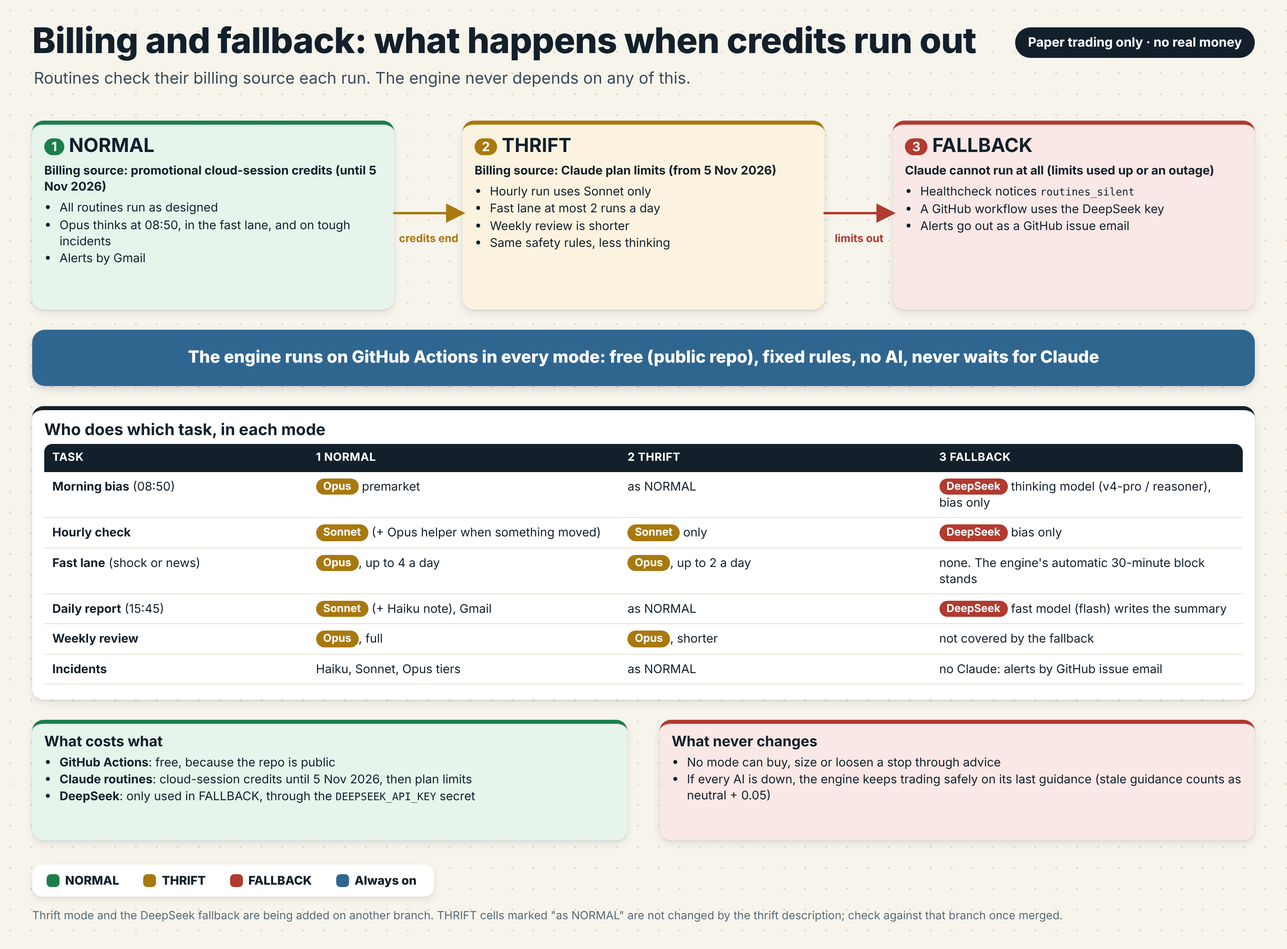
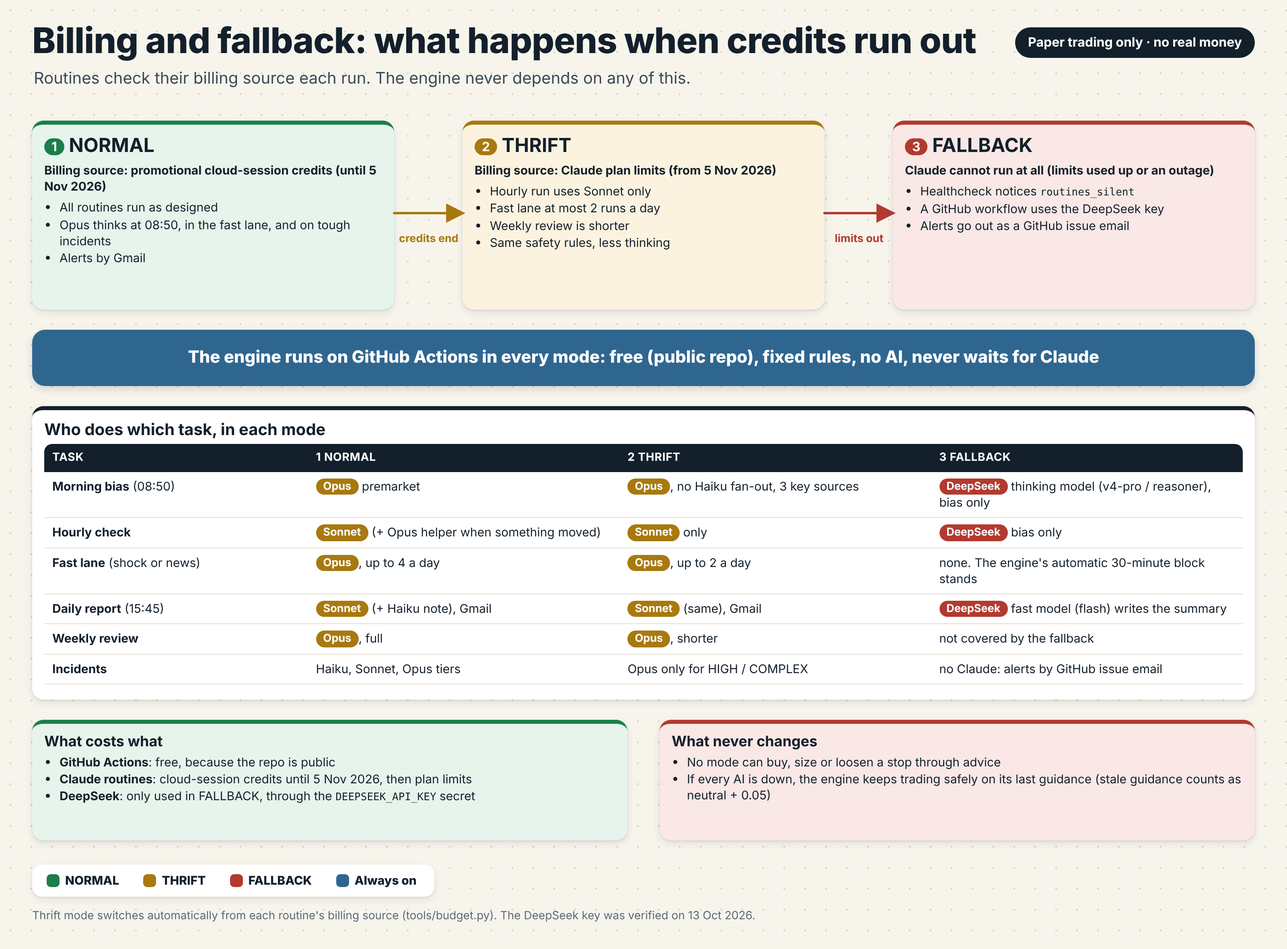
Visual guide: align thrift/fallback details with the merged code
Claude-Session: https://claude.ai/code/session_017yYgGxZsa4ANVjgGUi44pD

diff --git a/docs/architecture/03-daily-timeline.html b/docs/architecture/03-daily-timeline.html
@@ -44,6 +44,6 @@ b.g{color:#1a7f4b}b.r{color:#b23a30}b.y{color:#a8790f}
 <h1>What runs when, in one trading day</h1>
 <div class="sub">Everything in IST. The engine trades by the minute; Claude thinks a few times a day; you are asked once.</div>
 <div class="badge">Paper trading only · no real money</div>
-<div class="abs" style="left:140px;top:140px;width:69.875px;height:38px;background:#5b7083;color:#fff;font-weight:700;font-size:14px;display:flex;align-items:center;justify-content:center;border-radius:8px;overflow:hidden;white-space:nowrap">Pre-open</div><div class="abs" style="left:211.875px;top:140px;width:41.125px;height:38px;background:#b23a30;color:#fff;font-weight:700;font-size:14px;display:flex;align-items:center;justify-content:center;border-radius:8px;overflow:hidden;white-space:nowrap">×</div><div class="abs" style="left:255px;top:140px;width:946.75px;height:38px;background:#1a7f4b;color:#fff;font-weight:700;font-size:14px;display:flex;align-items:center;justify-content:center;border-radius:8px;overflow:hidden;white-space:nowrap">Buying allowed (09:30 to 15:00)</div><div class="abs" style="left:1203.75px;top:140px;width:84.25px;height:38px;background:#a8790f;color:#fff;font-weight:700;font-size:14px;display:flex;align-items:center;justify-content:center;border-radius:8px;overflow:hidden;white-space:nowrap">No new</div><div class="abs" style="left:1290px;top:140px;width:228px;height:38px;background:#8896a3;color:#fff;font-weight:700;font-size:14px;display:flex;align-items:center;justify-content:center;border-radius:8px;overflow:hidden;white-space:nowrap">Market closed</div><div class="lane c-blue" style="left:40px;top:244px;width:1520px;height:186px"><div class="ll">Engine</div></div><div class="lane c-slate" style="left:40px;top:440px;width:1520px;height:104px"><div class="ll">Watchdog</div></div><div class="lane c-gold" style="left:40px;top:554px;width:1520px;height:215px"><div class="ll">Claude</div></div><div class="lane c-green" style="left:40px;top:779px;width:1520px;height:70px"><div class="ll">You</div></div><div class="abs" style="left:298.125px;top:372px;white-space:nowrap;font-size:15px;font-weight:700;color:#2f6690">a decision every 60 seconds (about 375 a day)</div><div class="abs" style="left:182.75px;top:270px;white-space:nowrap;text-align:left;transform:none;font-size:15px;line-height:1.2"><b style="color:#2f6690">~09:00</b> engine starts (premarket dispatches it)</div><div class="abs" style="left:211.5px;top:295px;white-space:nowrap;text-align:left;transform:none;font-size:15px;line-height:1.2"><b style="color:#2f6690">09:10</b> scheduled start (backup)</div><div class="abs" style="left:225.875px;top:320px;white-space:nowrap;text-align:left;transform:none;font-size:15px;line-height:1.2"><b style="color:#2f6690">09:15</b> market opens</div><div class="abs" style="left:269px;top:345px;white-space:nowrap;text-align:left;transform:none;font-size:15px;line-height:1.2"><b style="color:#2f6690">09:30</b> first buys allowed</div><div class="abs" style="left:715.375px;top:322px;white-space:nowrap;text-align:left;transform:none;font-size:15px;line-height:1.2"><b style="color:#2f6690">12:15</b> afternoon session starts (morning one ends 12:20)</div><div class="abs" style="left:1039.375px;top:296px;width:300px;text-align:center;font-weight:700;font-size:15px">14:55 to 15:50 is magnified below</div><div class="abs" style="left:197.5px;top:452px;width:900px;font-size:15px"><b style="color:#5b7083">Watchdog every 10 min, 09:10 to 15:40</b> (re-starts the engine if it stopped, writes health.json)</div><div class="abs" style="left:1448.5px;top:450px;white-space:nowrap;text-align:right;transform:translateX(-100%);font-size:15px;line-height:1.2"><b style="color:#5b7083">16:30</b> post-close check</div><div class="abs" style="left:1491.625px;top:500px;white-space:nowrap;text-align:right;transform:translateX(-100%);font-size:15px;line-height:1.2"><b style="color:#b23a30">16:45</b> health check*</div><div class="abs" style="left:1506px;top:521px;white-space:nowrap;text-align:right;transform:translateX(-100%);font-size:15px;line-height:1.2"><b style="color:#b23a30">16:50</b> fallback check*</div><div class="abs" style="left:154px;top:580px;white-space:nowrap;text-align:left;transform:none;font-size:15px;line-height:1.2"><b style="color:#a8790f">08:50</b> Premarket (Opus): bias, events, notes</div><div class="abs" style="left:364.375px;top:614px;white-space:nowrap;font-size:15px"><b style="color:#a8790f">Hourly 10:15 to 15:15 (Sonnet)</b>: mostly "no change"</div><div class="abs" style="left:1319.125px;top:670px;white-space:nowrap;text-align:right;transform:translateX(-100%);font-size:15px;line-height:1.2"><b style="color:#a8790f">15:45</b> Daily report (Sonnet)</div><div class="abs" style="left:255px;top:712px;white-space:nowrap;font-size:15px;color:#3a4a58"><b style="color:#a8790f">Fast lane (Opus)</b> wakes any time on a price shock or big news, back in 2 to 4 minutes (max 4 a day).</div><div class="abs" style="left:255px;top:738px;white-space:nowrap;font-size:15px;color:#3a4a58"><b style="color:#a8790f">Incident routine (Sonnet)</b> wakes on a problem (max 6 a day).</div><div class="abs" style="left:1333.5px;top:803px;white-space:nowrap;text-align:right;transform:translateX(-100%);font-size:15px;line-height:1.2"><b style="color:#1a7f4b">~15:50</b> email arrives; tap "Looks right" in the Inbox any time</div><div class="abs" style="left:40px;top:884px;font-size:20px;font-weight:800">Magnified: 14:55 to 15:50</div><div class="card c-gold " style="left:124.0909090909091px;top:964px;width:190px;height:80px"><p style="margin:0"><b>15:00</b> No more new buys</p></div><div class="card c-blue " style="left:511.3636363636364px;top:1050px;width:190px;height:80px"><p style="margin:0"><b>15:15</b> Time and score exits; hourly run</p></div><div class="card c-blue " style="left:640.4545454545454px;top:964px;width:190px;height:80px"><p style="margin:0"><b>15:20</b> Overnight check: sell what a gap could hurt</p></div><div class="card c-blue " style="left:898.6363636363636px;top:1050px;width:190px;height:80px"><p style="margin:0"><b>15:30</b> Market closes</p></div><div class="card c-blue " style="left:1027.7272727272727px;top:964px;width:190px;height:80px"><p style="margin:0"><b>15:35</b> Last engine session ends, final push</p></div><div class="card c-gold " style="left:1285.9090909090908px;top:1050px;width:190px;height:80px"><p style="margin:0"><b>15:45</b> Daily report starts; email to you by ~15:50</p></div><div class="card c-gold tint" style="left:40px;top:1180px;width:490px;height:140px"><h3>Saturday</h3><ul><li><b>08:00</b> weekly backtest of the old design (legacy)</li><li><b>09:50</b> weekly review (Opus): week vs GOLDBEES buy-and-hold, lessons, at most 3 proposals for you</li></ul></div><div class="card c-blue tint" style="left:555px;top:1180px;width:490px;height:140px"><h3>Monthly archive</h3><ul><li><b>02:00 IST, first Sunday</b> of the month</li><li>Logs older than 35 days are gzipped into archive/, one summary row a day is kept</li></ul></div><div class="card c-red tint" style="left:1070px;top:1180px;width:490px;height:140px"><h3>Hourly reminders (24/7)</h3><ul><li>Runs at minute 7 of every hour, even on weekends</li><li>Uses Claude only when a <b>HIGH</b> alert is still unacknowledged after about an hour</li></ul></div><div class="legend" style="top:1345px"><div><span class="sw" style="background:#2f6690"></span><b>Engine</b></div><div><span class="sw" style="background:#5b7083"></span><b>GitHub watchdog</b></div><div><span class="sw" style="background:#a8790f"></span><b>Claude routine</b></div><div><span class="sw" style="background:#1a7f4b"></span><b>You</b></div><div><span class="sw" style="background:#b23a30"></span><b>* new fallback branch</b></div></div><div class="foot" style="top:1405px">All times IST, Monday to Friday unless stated. Band colours: grey = pre-open, red x = no buys 09:15 to 09:30, green = buying allowed, gold = no new buys 15:00 to 15:30. Source: .github/workflows/*.yml and routines/README.md. The 16:45 and 16:50 checks come from the DeepSeek fallback work on another branch.</div>
+<div class="abs" style="left:140px;top:140px;width:69.875px;height:38px;background:#5b7083;color:#fff;font-weight:700;font-size:14px;display:flex;align-items:center;justify-content:center;border-radius:8px;overflow:hidden;white-space:nowrap">Pre-open</div><div class="abs" style="left:211.875px;top:140px;width:41.125px;height:38px;background:#b23a30;color:#fff;font-weight:700;font-size:14px;display:flex;align-items:center;justify-content:center;border-radius:8px;overflow:hidden;white-space:nowrap">×</div><div class="abs" style="left:255px;top:140px;width:946.75px;height:38px;background:#1a7f4b;color:#fff;font-weight:700;font-size:14px;display:flex;align-items:center;justify-content:center;border-radius:8px;overflow:hidden;white-space:nowrap">Buying allowed (09:30 to 15:00)</div><div class="abs" style="left:1203.75px;top:140px;width:84.25px;height:38px;background:#a8790f;color:#fff;font-weight:700;font-size:14px;display:flex;align-items:center;justify-content:center;border-radius:8px;overflow:hidden;white-space:nowrap">No new</div><div class="abs" style="left:1290px;top:140px;width:228px;height:38px;background:#8896a3;color:#fff;font-weight:700;font-size:14px;display:flex;align-items:center;justify-content:center;border-radius:8px;overflow:hidden;white-space:nowrap">Market closed</div><div class="lane c-blue" style="left:40px;top:244px;width:1520px;height:186px"><div class="ll">Engine</div></div><div class="lane c-slate" style="left:40px;top:440px;width:1520px;height:104px"><div class="ll">Watchdog</div></div><div class="lane c-gold" style="left:40px;top:554px;width:1520px;height:215px"><div class="ll">Claude</div></div><div class="lane c-green" style="left:40px;top:779px;width:1520px;height:70px"><div class="ll">You</div></div><div class="abs" style="left:298.125px;top:372px;white-space:nowrap;font-size:15px;font-weight:700;color:#2f6690">a decision every 60 seconds (about 375 a day)</div><div class="abs" style="left:182.75px;top:270px;white-space:nowrap;text-align:left;transform:none;font-size:15px;line-height:1.2"><b style="color:#2f6690">~09:00</b> engine starts (premarket dispatches it)</div><div class="abs" style="left:211.5px;top:295px;white-space:nowrap;text-align:left;transform:none;font-size:15px;line-height:1.2"><b style="color:#2f6690">09:10</b> scheduled start (backup)</div><div class="abs" style="left:225.875px;top:320px;white-space:nowrap;text-align:left;transform:none;font-size:15px;line-height:1.2"><b style="color:#2f6690">09:15</b> market opens</div><div class="abs" style="left:269px;top:345px;white-space:nowrap;text-align:left;transform:none;font-size:15px;line-height:1.2"><b style="color:#2f6690">09:30</b> first buys allowed</div><div class="abs" style="left:715.375px;top:322px;white-space:nowrap;text-align:left;transform:none;font-size:15px;line-height:1.2"><b style="color:#2f6690">12:15</b> afternoon session starts (morning one ends 12:20)</div><div class="abs" style="left:1039.375px;top:296px;width:300px;text-align:center;font-weight:700;font-size:15px">14:55 to 15:50 is magnified below</div><div class="abs" style="left:197.5px;top:452px;width:900px;font-size:15px"><b style="color:#5b7083">Watchdog every 10 min, 09:10 to 15:40</b> (re-starts the engine if it stopped, writes health.json)</div><div class="abs" style="left:1448.5px;top:450px;white-space:nowrap;text-align:right;transform:translateX(-100%);font-size:15px;line-height:1.2"><b style="color:#5b7083">16:30</b> post-close check</div><div class="abs" style="left:1491.625px;top:500px;white-space:nowrap;text-align:right;transform:translateX(-100%);font-size:15px;line-height:1.2"><b style="color:#b23a30">16:45</b> health check*</div><div class="abs" style="left:1506px;top:521px;white-space:nowrap;text-align:right;transform:translateX(-100%);font-size:15px;line-height:1.2"><b style="color:#b23a30">16:50</b> fallback check*</div><div class="abs" style="left:154px;top:580px;white-space:nowrap;text-align:left;transform:none;font-size:15px;line-height:1.2"><b style="color:#a8790f">08:50</b> Premarket (Opus): bias, events, notes</div><div class="abs" style="left:364.375px;top:614px;white-space:nowrap;font-size:15px"><b style="color:#a8790f">Hourly 10:15 to 15:15 (Sonnet)</b>: mostly "no change"</div><div class="abs" style="left:1319.125px;top:670px;white-space:nowrap;text-align:right;transform:translateX(-100%);font-size:15px;line-height:1.2"><b style="color:#a8790f">15:45</b> Daily report (Sonnet)</div><div class="abs" style="left:255px;top:712px;white-space:nowrap;font-size:15px;color:#3a4a58"><b style="color:#a8790f">Fast lane (Opus)</b> wakes any time on a price shock or big news, back in 2 to 4 minutes (max 4 a day).</div><div class="abs" style="left:255px;top:738px;white-space:nowrap;font-size:15px;color:#3a4a58"><b style="color:#a8790f">Incident routine (Sonnet)</b> wakes on a problem (max 6 a day).</div><div class="abs" style="left:1333.5px;top:803px;white-space:nowrap;text-align:right;transform:translateX(-100%);font-size:15px;line-height:1.2"><b style="color:#1a7f4b">~15:50</b> email arrives; tap "Looks right" in the Inbox any time</div><div class="abs" style="left:40px;top:884px;font-size:20px;font-weight:800">Magnified: 14:55 to 15:50</div><div class="card c-gold " style="left:124.0909090909091px;top:964px;width:190px;height:80px"><p style="margin:0"><b>15:00</b> No more new buys</p></div><div class="card c-blue " style="left:511.3636363636364px;top:1050px;width:190px;height:80px"><p style="margin:0"><b>15:15</b> Time and score exits; hourly run</p></div><div class="card c-blue " style="left:640.4545454545454px;top:964px;width:190px;height:80px"><p style="margin:0"><b>15:20</b> Overnight check: sell what a gap could hurt</p></div><div class="card c-blue " style="left:898.6363636363636px;top:1050px;width:190px;height:80px"><p style="margin:0"><b>15:30</b> Market closes</p></div><div class="card c-blue " style="left:1027.7272727272727px;top:964px;width:190px;height:80px"><p style="margin:0"><b>15:35</b> Last engine session ends, final push</p></div><div class="card c-gold " style="left:1285.9090909090908px;top:1050px;width:190px;height:80px"><p style="margin:0"><b>15:45</b> Daily report starts; email to you by ~15:50</p></div><div class="card c-gold tint" style="left:40px;top:1180px;width:490px;height:140px"><h3>Saturday</h3><ul><li><b>08:00</b> weekly backtest of the old design (legacy)</li><li><b>09:50</b> weekly review (Opus): week vs GOLDBEES buy-and-hold, lessons, at most 3 proposals for you</li></ul></div><div class="card c-blue tint" style="left:555px;top:1180px;width:490px;height:140px"><h3>Monthly archive</h3><ul><li><b>02:00 IST, first Sunday</b> of the month</li><li>Logs older than 35 days are gzipped into archive/, one summary row a day is kept</li></ul></div><div class="card c-red tint" style="left:1070px;top:1180px;width:490px;height:140px"><h3>Hourly reminders (24/7)</h3><ul><li>Runs at minute 7 of every hour, even on weekends</li><li>Uses Claude only when a <b>HIGH</b> alert is still unacknowledged after about an hour</li></ul></div><div class="legend" style="top:1345px"><div><span class="sw" style="background:#2f6690"></span><b>Engine</b></div><div><span class="sw" style="background:#5b7083"></span><b>GitHub watchdog</b></div><div><span class="sw" style="background:#a8790f"></span><b>Claude routine</b></div><div><span class="sw" style="background:#1a7f4b"></span><b>You</b></div><div><span class="sw" style="background:#b23a30"></span><b>* fallback / alarm</b></div></div><div class="foot" style="top:1405px">All times IST, Monday to Friday unless stated. Band colours: grey = pre-open, red x = no buys 09:15 to 09:30, green = buying allowed, gold = no new buys 15:00 to 15:30. Source: .github/workflows/*.yml and routines/README.md. The 16:45 check is the "Claude not running" alarm; 16:50 is the DeepSeek fallback check.</div>
 <svg class="ov" width="1600" height="1450" viewBox="0 0 1600 1450"><defs><marker id="a-ink" viewBox="0 0 10 10" refX="8.5" refY="5" markerWidth="8" markerHeight="8" orient="auto-start-reverse"><path d="M0,0 L10,5 L0,10 z" fill="#13202b"/></marker><marker id="a-gold" viewBox="0 0 10 10" refX="8.5" refY="5" markerWidth="8" markerHeight="8" orient="auto-start-reverse"><path d="M0,0 L10,5 L0,10 z" fill="#a8790f"/></marker><marker id="a-green" viewBox="0 0 10 10" refX="8.5" refY="5" markerWidth="8" markerHeight="8" orient="auto-start-reverse"><path d="M0,0 L10,5 L0,10 z" fill="#1a7f4b"/></marker><marker id="a-red" viewBox="0 0 10 10" refX="8.5" refY="5" markerWidth="8" markerHeight="8" orient="auto-start-reverse"><path d="M0,0 L10,5 L0,10 z" fill="#b23a30"/></marker><marker id="a-blue" viewBox="0 0 10 10" refX="8.5" refY="5" markerWidth="8" markerHeight="8" orient="auto-start-reverse"><path d="M0,0 L10,5 L0,10 z" fill="#2f6690"/></marker><marker id="a-slate" viewBox="0 0 10 10" refX="8.5" refY="5" markerWidth="8" markerHeight="8" orient="auto-start-reverse"><path d="M0,0 L10,5 L0,10 z" fill="#5b7083"/></marker></defs><line x1="140" x2="1520" y1="196" y2="196" stroke="#13202b" stroke-width="3"/><line x1="168.75" x2="168.75" y1="188" y2="204" stroke="#13202b" stroke-width="3"/><text x="168.75" y="226" text-anchor="middle" font-size="16" font-weight="700" fill="#13202b" stroke="#f7f4ec" stroke-width="5" paint-order="stroke" stroke-linejoin="round">09:00</text><line x1="341.25" x2="341.25" y1="188" y2="204" stroke="#13202b" stroke-width="3"/><text x="341.25" y="226" text-anchor="middle" font-size="16" font-weight="700" fill="#13202b" stroke="#f7f4ec" stroke-width="5" paint-order="stroke" stroke-linejoin="round">10:00</text><line x1="513.75" x2="513.75" y1="188" y2="204" stroke="#13202b" stroke-width="3"/><text x="513.75" y="226" text-anchor="middle" font-size="16" font-weight="700" fill="#13202b" stroke="#f7f4ec" stroke-width="5" paint-order="stroke" stroke-linejoin="round">11:00</text><line x1="686.25" x2="686.25" y1="188" y2="204" stroke="#13202b" stroke-width="3"/><text x="686.25" y="226" text-anchor="middle" font-size="16" font-weight="700" fill="#13202b" stroke="#f7f4ec" stroke-width="5" paint-order="stroke" stroke-linejoin="round">12:00</text><line x1="858.75" x2="858.75" y1="188" y2="204" stroke="#13202b" stroke-width="3"/><text x="858.75" y="226" text-anchor="middle" font-size="16" font-weight="700" fill="#13202b" stroke="#f7f4ec" stroke-width="5" paint-order="stroke" stroke-linejoin="round">13:00</text><line x1="1031.25" x2="1031.25" y1="188" y2="204" stroke="#13202b" stroke-width="3"/><text x="1031.25" y="226" text-anchor="middle" font-size="16" font-weight="700" fill="#13202b" stroke="#f7f4ec" stroke-width="5" paint-order="stroke" stroke-linejoin="round">14:00</text><line x1="1203.75" x2="1203.75" y1="188" y2="204" stroke="#13202b" stroke-width="3"/><text x="1203.75" y="226" text-anchor="middle" font-size="16" font-weight="700" fill="#13202b" stroke="#f7f4ec" stroke-width="5" paint-order="stroke" stroke-linejoin="round">15:00</text><line x1="1376.25" x2="1376.25" y1="188" y2="204" stroke="#13202b" stroke-width="3"/><text x="1376.25" y="226" text-anchor="middle" font-size="16" font-weight="700" fill="#13202b" stroke="#f7f4ec" stroke-width="5" paint-order="stroke" stroke-linejoin="round">16:00</text><rect x="211.875" y="395" width="1078.125" height="14" rx="7" fill="#2f6690" opacity=".85"/><circle cx="168.75" cy="279" r="9" fill="#2f6690" stroke="#fff" stroke-width="3"/><circle cx="197.5" cy="304" r="9" fill="#2f6690" stroke="#fff" stroke-width="3"/><circle cx="211.875" cy="329" r="9" fill="#2f6690" stroke="#fff" stroke-width="3"/><circle cx="255" cy="354" r="9" fill="#2f6690" stroke="#fff" stroke-width="3"/><circle cx="729.375" cy="402" r="9" fill="#2f6690" stroke="#fff" stroke-width="3"/><path d="M729.375,346 L729.375,394" fill="none" stroke="#2f6690" stroke-width="2" stroke-linejoin="round" stroke-linecap="round"/><rect x="1189.375" y="383" width="158.125" height="38" rx="8" fill="none" stroke="#13202b" stroke-width="2.5" stroke-dasharray="6 5"/><path d="M1209.375,330 L1209.375,382" fill="none" stroke="#13202b" stroke-width="2" stroke-linejoin="round" stroke-linecap="round" marker-end="url(#a-ink)"/><line x1="197.5" x2="197.5" y1="478" y2="498" stroke="#5b7083" stroke-width="3"/><line x1="226.25" x2="226.25" y1="478" y2="498" stroke="#5b7083" stroke-width="3"/><line x1="255" x2="255" y1="478" y2="498" stroke="#5b7083" stroke-width="3"/><line x1="283.75" x2="283.75" y1="478" y2="498" stroke="#5b7083" stroke-width="3"/><line x1="312.5" x2="312.5" y1="478" y2="498" stroke="#5b7083" stroke-width="3"/><line x1="341.25" x2="341.25" y1="478" y2="498" stroke="#5b7083" stroke-width="3"/><line x1="370" x2="370" y1="478" y2="498" stroke="#5b7083" stroke-width="3"/><line x1="398.75" x2="398.75" y1="478" y2="498" stroke="#5b7083" stroke-width="3"/><line x1="427.5" x2="427.5" y1="478" y2="498" stroke="#5b7083" stroke-width="3"/><line x1="456.25" x2="456.25" y1="478" y2="498" stroke="#5b7083" stroke-width="3"/><line x1="485" x2="485" y1="478" y2="498" stroke="#5b7083" stroke-width="3"/><line x1="513.75" x2="513.75" y1="478" y2="498" stroke="#5b7083" stroke-width="3"/><line x1="542.5" x2="542.5" y1="478" y2="498" stroke="#5b7083" stroke-width="3"/><line x1="571.25" x2="571.25" y1="478" y2="498" stroke="#5b7083" stroke-width="3"/><line x1="600" x2="600" y1="478" y2="498" stroke="#5b7083" stroke-width="3"/><line x1="628.75" x2="628.75" y1="478" y2="498" stroke="#5b7083" stroke-width="3"/><line x1="657.5" x2="657.5" y1="478" y2="498" stroke="#5b7083" stroke-width="3"/><line x1="686.25" x2="686.25" y1="478" y2="498" stroke="#5b7083" stroke-width="3"/><line x1="715" x2="715" y1="478" y2="498" stroke="#5b7083" stroke-width="3"/><line x1="743.75" x2="743.75" y1="478" y2="498" stroke="#5b7083" stroke-width="3"/><line x1="772.5" x2="772.5" y1="478" y2="498" stroke="#5b7083" stroke-width="3"/><line x1="801.25" x2="801.25" y1="478" y2="498" stroke="#5b7083" stroke-width="3"/><line x1="830" x2="830" y1="478" y2="498" stroke="#5b7083" stroke-width="3"/><line x1="858.75" x2="858.75" y1="478" y2="498" stroke="#5b7083" stroke-width="3"/><line x1="887.5" x2="887.5" y1="478" y2="498" stroke="#5b7083" stroke-width="3"/><line x1="916.25" x2="916.25" y1="478" y2="498" stroke="#5b7083" stroke-width="3"/><line x1="945" x2="945" y1="478" y2="498" stroke="#5b7083" stroke-width="3"/><line x1="973.75" x2="973.75" y1="478" y2="498" stroke="#5b7083" stroke-width="3"/><line x1="1002.5" x2="1002.5" y1="478" y2="498" stroke="#5b7083" stroke-width="3"/><line x1="1031.25" x2="1031.25" y1="478" y2="498" stroke="#5b7083" stroke-width="3"/><line x1="1060" x2="1060" y1="478" y2="498" stroke="#5b7083" stroke-width="3"/><line x1="1088.75" x2="1088.75" y1="478" y2="498" stroke="#5b7083" stroke-width="3"/><line x1="1117.5" x2="1117.5" y1="478" y2="498" stroke="#5b7083" stroke-width="3"/><line x1="1146.25" x2="1146.25" y1="478" y2="498" stroke="#5b7083" stroke-width="3"/><line x1="1175" x2="1175" y1="478" y2="498" stroke="#5b7083" stroke-width="3"/><line x1="1203.75" x2="1203.75" y1="478" y2="498" stroke="#5b7083" stroke-width="3"/><line x1="1232.5" x2="1232.5" y1="478" y2="498" stroke="#5b7083" stroke-width="3"/><line x1="1261.25" x2="1261.25" y1="478" y2="498" stroke="#5b7083" stroke-width="3"/><line x1="1290" x2="1290" y1="478" y2="498" stroke="#5b7083" stroke-width="3"/><line x1="1318.75" x2="1318.75" y1="478" y2="498" stroke="#5b7083" stroke-width="3"/><circle cx="1462.5" cy="487" r="9" fill="#5b7083" stroke="#fff" stroke-width="3"/><circle cx="1505.625" cy="508" r="9" fill="#b23a30" stroke="#fff" stroke-width="3"/><circle cx="1520" cy="529" r="9" fill="#b23a30" stroke="#fff" stroke-width="3"/><circle cx="140" cy="590" r="9" fill="#a8790f" stroke="#fff" stroke-width="3"/><circle cx="384.375" cy="650" r="9" fill="#a8790f" stroke="#fff" stroke-width="3"/><circle cx="556.875" cy="650" r="9" fill="#a8790f" stroke="#fff" stroke-width="3"/><circle cx="729.375" cy="650" r="9" fill="#a8790f" stroke="#fff" stroke-width="3"/><circle cx="901.875" cy="650" r="9" fill="#a8790f" stroke="#fff" stroke-width="3"/><circle cx="1074.375" cy="650" r="9" fill="#a8790f" stroke="#fff" stroke-width="3"/><circle cx="1246.875" cy="650" r="9" fill="#a8790f" stroke="#fff" stroke-width="3"/><line x1="384.375" x2="1246.875" y1="650" y2="650" stroke="#a8790f" stroke-width="2" stroke-dasharray="4 5"/><circle cx="1333.125" cy="650" r="9" fill="#a8790f" stroke="#fff" stroke-width="3"/><circle cx="1347.5" cy="814" r="9" fill="#1a7f4b" stroke="#fff" stroke-width="3"/><line x1="90" x2="1510" y1="940" y2="940" stroke="#13202b" stroke-width="3"/><circle cx="219.0909090909091" cy="940" r="9" fill="#a8790f" stroke="#fff" stroke-width="3"/><path d="M219.0909090909091,949 L219.0909090909091,962" fill="none" stroke="#a8790f" stroke-width="2" stroke-linejoin="round" stroke-linecap="round"/><circle cx="606.3636363636364" cy="940" r="9" fill="#2f6690" stroke="#fff" stroke-width="3"/><path d="M606.3636363636364,949 L606.3636363636364,1048" fill="none" stroke="#2f6690" stroke-width="2" stroke-linejoin="round" stroke-linecap="round"/><circle cx="735.4545454545454" cy="940" r="9" fill="#2f6690" stroke="#fff" stroke-width="3"/><path d="M735.4545454545454,949 L735.4545454545454,962" fill="none" stroke="#2f6690" stroke-width="2" stroke-linejoin="round" stroke-linecap="round"/><circle cx="993.6363636363636" cy="940" r="9" fill="#2f6690" stroke="#fff" stroke-width="3"/><path d="M993.6363636363636,949 L993.6363636363636,1048" fill="none" stroke="#2f6690" stroke-width="2" stroke-linejoin="round" stroke-linecap="round"/><circle cx="1122.7272727272727" cy="940" r="9" fill="#2f6690" stroke="#fff" stroke-width="3"/><path d="M1122.7272727272727,949 L1122.7272727272727,962" fill="none" stroke="#2f6690" stroke-width="2" stroke-linejoin="round" stroke-linecap="round"/><circle cx="1380.9090909090908" cy="940" r="9" fill="#a8790f" stroke="#fff" stroke-width="3"/><path d="M1380.9090909090908,949 L1380.9090909090908,1048" fill="none" stroke="#a8790f" stroke-width="2" stroke-linejoin="round" stroke-linecap="round"/></svg>
 </body></html>

diff --git a/docs/architecture/07-billing-and-fallback.html b/docs/architecture/07-billing-and-fallback.html
@@ -46,11 +46,11 @@ b.g{color:#1a7f4b}b.r{color:#b23a30}b.y{color:#a8790f}
 <div class="badge">Paper trading only · no real money</div>
 <div class="card c-green tint" style="left:40px;top:150px;width:450px;height:235px"><h3 style="font-size:24px"><span class="pill green" style="font-size:16px">1</span> NORMAL</h3><p style="font-weight:700;margin:6px 0">Billing source: promotional cloud-session credits (until 5 Nov 2026)</p><ul><li>All routines run as designed</li><li>Opus thinks at 08:50, in the fast lane, and on tough incidents</li><li>Alerts by Gmail</li></ul></div><div class="card c-gold tint" style="left:575px;top:150px;width:450px;height:235px"><h3 style="font-size:24px"><span class="pill gold" style="font-size:16px">2</span> THRIFT</h3><p style="font-weight:700;margin:6px 0">Billing source: Claude plan limits (from 5 Nov 2026)</p><ul><li>Hourly run uses Sonnet only</li><li>Fast lane at most 2 runs a day</li><li>Weekly review is shorter</li><li>Same safety rules, less thinking</li></ul></div><div class="card c-red tint" style="left:1110px;top:150px;width:450px;height:235px"><h3 style="font-size:24px"><span class="pill red" style="font-size:16px">3</span> FALLBACK</h3><p style="font-weight:700;margin:6px 0">Claude cannot run at all (limits used up or an outage)</p><ul><li>Healthcheck notices <span class="m" style="font-size:13px">routines_silent</span></li><li>A GitHub workflow uses the DeepSeek key</li><li>Alerts go out as a GitHub issue email</li></ul></div><div class="abs" style="left:492px;top:288px;width:82px;text-align:center;font-size:13.5px;font-weight:700;color:#a8790f">credits end</div><div class="abs" style="left:1027px;top:288px;width:82px;text-align:center;font-size:13.5px;font-weight:700;color:#b23a30">limits out</div><div class="abs" style="left:40px;top:410px;width:1520px;height:70px;border-radius:16px;background:#2f6690;color:#fff;display:flex;align-items:center;justify-content:center;font-size:21px;font-weight:800;box-shadow:0 4px 10px rgba(19,32,43,.15)">The engine runs on GitHub Actions in every mode: free (public repo), fixed rules, no AI, never waits for Claude</div><div class="card c-ink " style="left:40px;top:505px;width:1520px;height:365px"><h3 style="font-size:20px">Who does which task, in each mode</h3>
 <table class="t" style="margin-top:6px"><tr><th style="width:22%">Task</th><th style="width:26%">1 NORMAL</th><th style="width:26%">2 THRIFT</th><th>3 FALLBACK</th></tr>
-<tr><td><b>Morning bias</b> (08:50)</td><td><span class="pill gold">Opus</span> premarket</td><td>as NORMAL</td><td><span class="pill red">DeepSeek</span> thinking model (v4-pro / reasoner), bias only</td></tr>
+<tr><td><b>Morning bias</b> (08:50)</td><td><span class="pill gold">Opus</span> premarket</td><td><span class="pill gold">Opus</span>, no Haiku fan-out, 3 key sources</td><td><span class="pill red">DeepSeek</span> thinking model (v4-pro / reasoner), bias only</td></tr>
 <tr><td><b>Hourly check</b></td><td><span class="pill gold">Sonnet</span> (+ Opus helper when something moved)</td><td><span class="pill gold">Sonnet</span> only</td><td><span class="pill red">DeepSeek</span> bias only</td></tr>
 <tr><td><b>Fast lane</b> (shock or news)</td><td><span class="pill gold">Opus</span>, up to 4 a day</td><td><span class="pill gold">Opus</span>, up to 2 a day</td><td>none. The engine's automatic 30-minute block stands</td></tr>
-<tr><td><b>Daily report</b> (15:45)</td><td><span class="pill gold">Sonnet</span> (+ Haiku note), Gmail</td><td>as NORMAL</td><td><span class="pill red">DeepSeek</span> fast model (flash) writes the summary</td></tr>
+<tr><td><b>Daily report</b> (15:45)</td><td><span class="pill gold">Sonnet</span> (+ Haiku note), Gmail</td><td><span class="pill gold">Sonnet</span> (same), Gmail</td><td><span class="pill red">DeepSeek</span> fast model (flash) writes the summary</td></tr>
 <tr><td><b>Weekly review</b></td><td><span class="pill gold">Opus</span>, full</td><td><span class="pill gold">Opus</span>, shorter</td><td>not covered by the fallback</td></tr>
-<tr><td><b>Incidents</b></td><td>Haiku, Sonnet, Opus tiers</td><td>as NORMAL</td><td>no Claude: alerts by GitHub issue email</td></tr></table></div><div class="card c-green tint" style="left:40px;top:895px;width:740px;height:150px"><h3>What costs what</h3><ul><li><b>GitHub Actions</b>: free, because the repo is public</li><li><b>Claude routines</b>: cloud-session credits until 5 Nov 2026, then plan limits</li><li><b>DeepSeek</b>: only used in FALLBACK, through the <span class="m" style="font-size:13px">DEEPSEEK_API_KEY</span> secret</li></ul></div><div class="card c-red tint" style="left:820px;top:895px;width:740px;height:150px"><h3>What never changes</h3><ul><li>No mode can buy, size or loosen a stop through advice</li><li>If every AI is down, the engine keeps trading safely on its last guidance (stale guidance counts as neutral + 0.05)</li></ul></div><div class="legend" style="top:1075px"><div><span class="sw" style="background:#1a7f4b"></span><b>NORMAL</b></div><div><span class="sw" style="background:#a8790f"></span><b>THRIFT</b></div><div><span class="sw" style="background:#b23a30"></span><b>FALLBACK</b></div><div><span class="sw" style="background:#2f6690"></span><b>Always on</b></div></div><div class="foot" style="top:1130px">Thrift mode and the DeepSeek fallback are being added on another branch. THRIFT cells marked "as NORMAL" are not changed by the thrift description; check against that branch once merged.</div>
+<tr><td><b>Incidents</b></td><td>Haiku, Sonnet, Opus tiers</td><td>Opus only for HIGH / COMPLEX</td><td>no Claude: alerts by GitHub issue email</td></tr></table></div><div class="card c-green tint" style="left:40px;top:895px;width:740px;height:150px"><h3>What costs what</h3><ul><li><b>GitHub Actions</b>: free, because the repo is public</li><li><b>Claude routines</b>: cloud-session credits until 5 Nov 2026, then plan limits</li><li><b>DeepSeek</b>: only used in FALLBACK, through the <span class="m" style="font-size:13px">DEEPSEEK_API_KEY</span> secret</li></ul></div><div class="card c-red tint" style="left:820px;top:895px;width:740px;height:150px"><h3>What never changes</h3><ul><li>No mode can buy, size or loosen a stop through advice</li><li>If every AI is down, the engine keeps trading safely on its last guidance (stale guidance counts as neutral + 0.05)</li></ul></div><div class="legend" style="top:1075px"><div><span class="sw" style="background:#1a7f4b"></span><b>NORMAL</b></div><div><span class="sw" style="background:#a8790f"></span><b>THRIFT</b></div><div><span class="sw" style="background:#b23a30"></span><b>FALLBACK</b></div><div><span class="sw" style="background:#2f6690"></span><b>Always on</b></div></div><div class="foot" style="top:1130px">Thrift mode switches automatically from each routine's billing source (tools/budget.py). The DeepSeek key was verified on 13 Oct 2026.</div>
 <svg class="ov" width="1600" height="1180" viewBox="0 0 1600 1180"><defs><marker id="a-ink" viewBox="0 0 10 10" refX="8.5" refY="5" markerWidth="8" markerHeight="8" orient="auto-start-reverse"><path d="M0,0 L10,5 L0,10 z" fill="#13202b"/></marker><marker id="a-gold" viewBox="0 0 10 10" refX="8.5" refY="5" markerWidth="8" markerHeight="8" orient="auto-start-reverse"><path d="M0,0 L10,5 L0,10 z" fill="#a8790f"/></marker><marker id="a-green" viewBox="0 0 10 10" refX="8.5" refY="5" markerWidth="8" markerHeight="8" orient="auto-start-reverse"><path d="M0,0 L10,5 L0,10 z" fill="#1a7f4b"/></marker><marker id="a-red" viewBox="0 0 10 10" refX="8.5" refY="5" markerWidth="8" markerHeight="8" orient="auto-start-reverse"><path d="M0,0 L10,5 L0,10 z" fill="#b23a30"/></marker><marker id="a-blue" viewBox="0 0 10 10" refX="8.5" refY="5" markerWidth="8" markerHeight="8" orient="auto-start-reverse"><path d="M0,0 L10,5 L0,10 z" fill="#2f6690"/></marker><marker id="a-slate" viewBox="0 0 10 10" refX="8.5" refY="5" markerWidth="8" markerHeight="8" orient="auto-start-reverse"><path d="M0,0 L10,5 L0,10 z" fill="#5b7083"/></marker></defs><path d="M490,265 L575,265" fill="none" stroke="#a8790f" stroke-width="3" stroke-linejoin="round" stroke-linecap="round" marker-end="url(#a-gold)"/><path d="M1025,265 L1110,265" fill="none" stroke="#b23a30" stroke-width="3" stroke-linejoin="round" stroke-linecap="round" marker-end="url(#a-red)"/></svg>
 </body></html>

diff --git a/docs/ARCHITECTURE.md b/docs/ARCHITECTURE.md
@@ -10,8 +10,6 @@ and talk to the engine only through files in this repo. You see one email a day 
 This page is the index. Each picture is a standalone HTML file next to its PNG (in
 [`architecture/`](architecture/)), so it can be edited and re-rendered.
 
-> Thrift mode, the DeepSeek fallback, the billing check and the Daybook Inbox are described as designed. The
-> thrift and fallback code lives on another branch, so check the details against it once merged.
 
 ---
 
